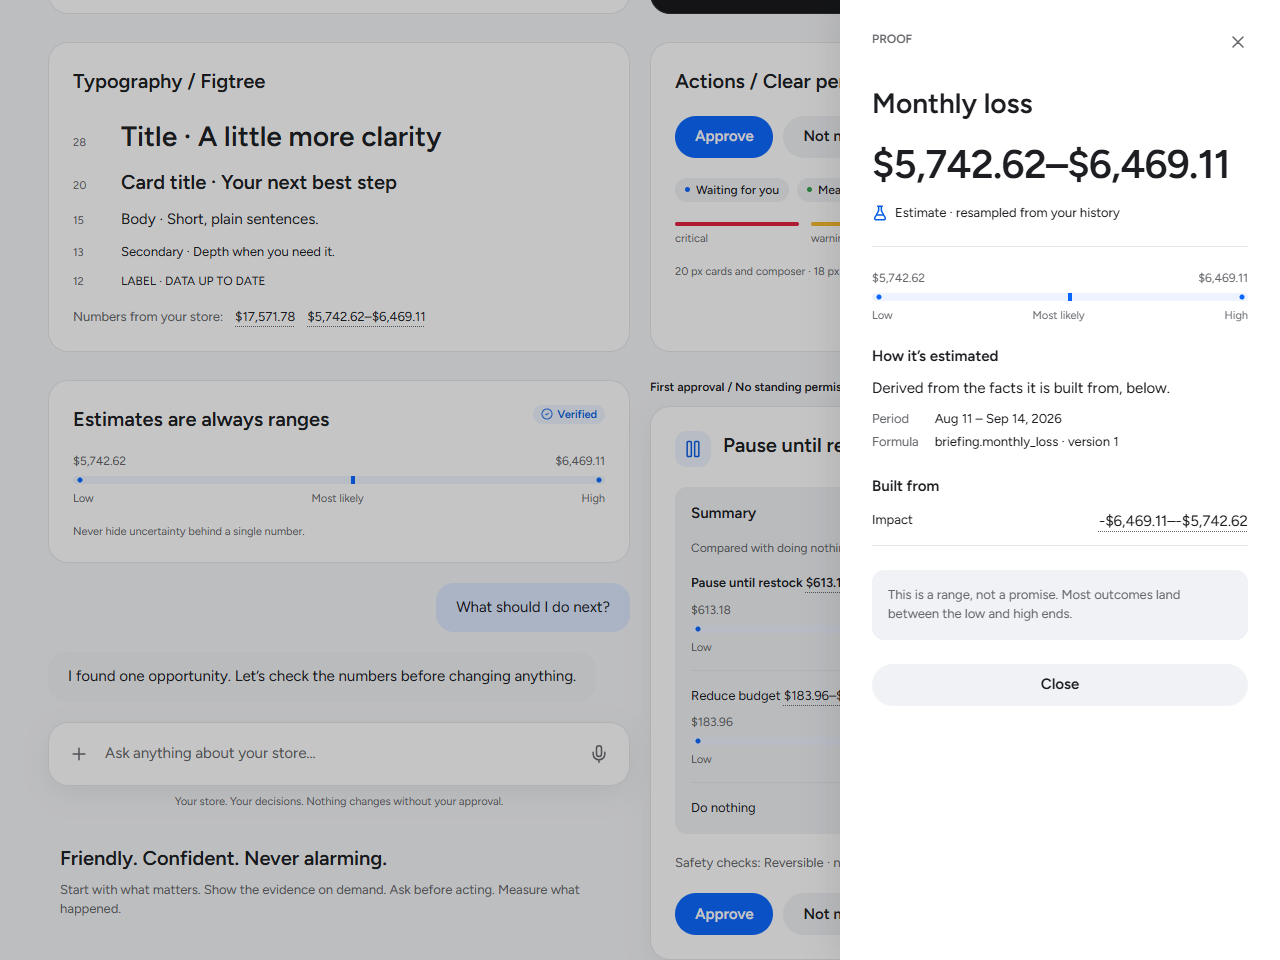
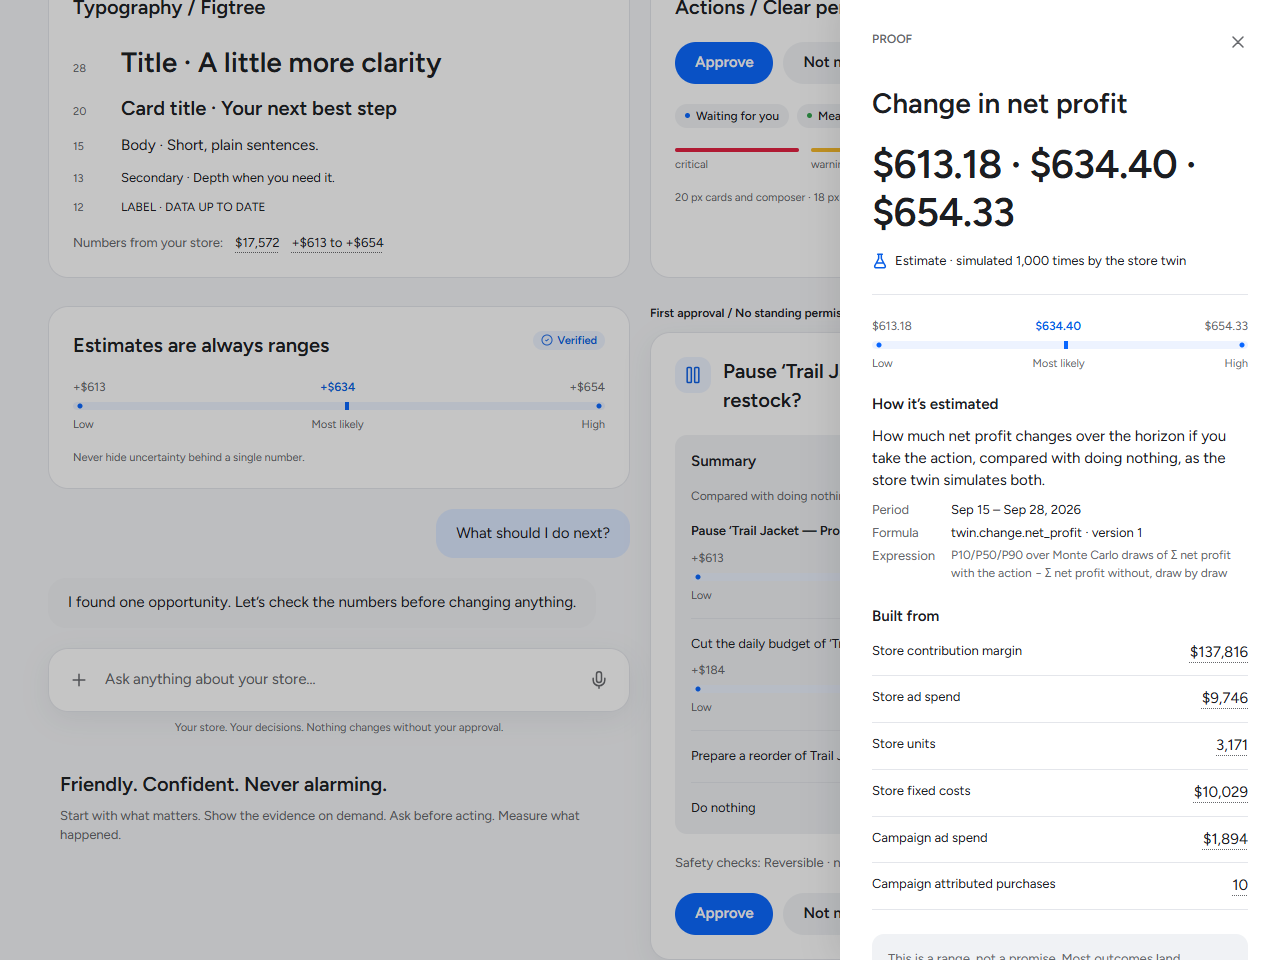
docs(web): page 1 screens refreshed after the API filled its gaps
The screens show the store's name, the demo's real names, short and
signed texts, the range bars' most likely value, decision labels with
"Do nothing $0", formulas in words, an ad spend proof with its daily
rows by campaign, "data up to" and the simulation count. The
differences list says what the API filled and what still differs
(connection health, a campaign's proof, formatting, a third option).
The screenshot script walks the lineage to a base fact with rows, as
Figma's exact proof shows one.

diff --git a/docs/screens/page-1/README.md b/docs/screens/page-1/README.md
@@ -32,9 +32,7 @@ session (the sign-in frame, the estimate sheet, the header and the composer).
    permission card); it opens "Every number here was computed by code from your data" and links to
    the proof. Not in Figma.
 3. **Real data only (adjustment 2).** Every number, name and option on the screens is the demo
-   store's, from the API: Figma's sample copy ("Northwind Outdoor", "Trail Jacket — Prospecting",
-   "+$570 to +$614") is not reproduced. Formats are the API's: `$613.18–$654.33`, with cents, no
-   plus sign and an en dash, where Figma writes `+$570 to +$614`.
+   store's, from the API; none is copied from Figma.
 4. **Lineage in the proof (rule 2).** The proof sheet adds the formula's id and version, the
    period, and "Built from" (the parent facts, each one clickable, with Back).
 5. **No invented links or sample data.** The email field starts empty (Figma shows a sample
@@ -44,45 +42,49 @@ session (the sign-in frame, the estimate sheet, the header and the composer).
 6. **Development build only:** "Use the demo store" under the sign-in form, and the `/style-guide`
    catalogue itself (absent from a production build).
 
-### Waiting for the API (reported, no backend change made)
+### Filled by the API (the backend task after page 1)
 
-7. **The store's name.** No endpoint returns it (the session lists store ids): the header and the
-   store menu say "Your store" / "YS" where Figma shows "Northwind Outdoor · Demo store" / "NO".
-8. **P50 formatted.** A fact formats an estimate as its P10–P90 range only; the bar marks P50 but
-   cannot label it (Figma: "+$592" in blue above the mark, and "+$570 · +$592 · +$614" as the
-   estimate's value).
-9. **Source rows in the proof.** A fact's sources are tables with row counts; Figma lists each daily
-   row with its amount, a total, "Last synced today at 7:25 AM" and "Open source in Meta ↗". The
-   sheet shows each table and its row count, and a Close button.
-10. **Connection health.** The header pill says "Connected" from the API's readiness check; Figma's
-    "All systems connected" needs each connection's state (Shopify, Meta Ads), which the API does
-    not serve.
-11. **Decision wording.** A decision's options carry ids (`pause_until_restock`, `reduce_budget`) and
-    raw actions (`change: "-0.3"`), not the entity's name or a formatted label: the card asks
-    "Pause until restock?" where Figma asks "Pause ‘Trail Jacket — Prospecting’ until restock?", and
-    says "Reduce budget" for "Cut budget 30%" (the frontend computes no percentage). Page 3 will
-    need entity names and formatted option labels.
-12. **Estimate method.** "simulated 1,000 times" needs the simulation count; the sheet says how in
-    words from the method id ("resampled from your history"). "What could change this" is not part
-    of a fact's proof; a decision's options carry `risks` and `invalidated_if`, which page 3 can
-    show on the decision's estimates.
-13. **"Do nothing $0".** The baseline has no fact, so no amount is shown.
-14. **Formula wording.** A formula's description is an expression over metric ids
-    (`contribution_after_ads − fixed_costs`); Figma's "How it's calculated" reads "Sum of daily ad
-    spend, Sep 23–27". The sheet shows the API's text as it is.
+The first review found gaps in the API; they are filled, and the screens refreshed:
+
+- the store's name (`GET /stores/{id}`): "Northwind Outdoor · Demo store" and "NO" in the shell;
+- the demo store's names: Northwind Outdoor, its Trail Jacket and "Trail Jacket — Prospecting";
+- short texts for screens ("+$613 to +$654"), the exact ones for the proof, P10/P50/P90 formatted:
+  the range bars label the most likely value;
+- decision and option labels naming what they act on, and "Do nothing" with its zero fact ("$0");
+- formulas and fact families explained in plain words, with the technical expression beneath;
+- each source's rows with their date, campaign or product, and amount, "Data up to", the total;
+- the estimates' simulation count ("simulated 1,000 times by the store twin");
+- a name for every fact ("Change in net profit"), for the proof's title.
+
+### Still different
+
+7. **Connection health.** The header pill says "Connected" from the API's readiness check; Figma's
+   "All systems connected" needs each connection's state (Shopify, Meta Ads), which the API does
+   not serve (not part of the backend task).
+8. **The proof of a campaign's number.** Figma's exact proof is the ad spend of one campaign over
+   5 days ("Ad spend, Trail Jacket — Prospecting", 5 rows); the screenshot walks the store's
+   lineage to the store-wide ad spend (28 rows, each naming its campaign, 10 at a time). The title
+   names the metric; the fact's campaign is not in it. Figma's "Open source in Meta ↗" has no
+   counterpart: the API has no link to the platform.
+9. **Formatting.** The API writes "+$613 to +$654" where Figma writes "+$570 to +$614" (other
+   numbers, same form), and exact texts keep their cents ("$1,489.82"). Exact texts are unsigned;
+   short texts carry the sign of a change.
+10. **The permission card's options.** The demo decision has three options and "Do nothing": the
+    third, "Prepare a reorder of Trail Jacket", has no range (it prepares, it does not act). Figma
+    shows two options with ranges.
 
 ### Not built yet (later pages)
 
-15. The conversation is empty: the morning brief, the date line and answers come with page 2. The
+11. The conversation is empty: the morning brief, the date line and answers come with page 2. The
     proof screenshots open over the `/style-guide` catalogue instead of the conversation.
-16. The safety-check line of the catalogue's permission card is written from the option's
+12. The safety-check line of the catalogue's permission card is written from the option's
     reversibility; page 3 shows the policy's real checks (`POST /policy/preview`).
-17. The estimate sheet's caveat is generic ("This is a range, not a promise. Most outcomes land
+13. The estimate sheet's caveat is generic ("This is a range, not a promise. Most outcomes land
     between the low and high ends."); Figma's "I'll measure the result after the ad resumes" and
     "Back to options" belong to a decision's estimate (page 3).
-18. Narrow screens (390 px) are page 9's responsive pass; the shell is laid out for desktop.
+14. Narrow screens (390 px) are page 9's responsive pass; the shell is laid out for desktop.
 
 ### Small visual differences
 
-19. Status dots and range dots are CSS circles; Figma exports them as 5 px SVG dots.
-20. Number buttons get a hover colour and a focus ring; Figma has no states for them.
+15. Status dots and range dots are CSS circles; Figma exports them as 5 px SVG dots.
+16. Number buttons get a hover colour and a focus ring; Figma has no states for them.

diff --git a/docs/adr/0025-web-platform.md b/docs/adr/0025-web-platform.md
@@ -44,7 +44,9 @@ marker, dots) keep the Figma blues: they are graphics, above 3:1.
 for the visit when storage is refused). The theme is applied before the first render, so a dark
 system never flashes light.
 
-**No number is made in the frontend.** ESLint bans `Math.round/floor/ceil/trunc`, `toFixed`,
+**No number is made in the frontend.** The API writes every text a number is shown as: `display`
+(short: whole units, a range as "low to high", a change signed) on screens, `formatted` (exact) in
+the proof sheet, and an estimate's P10, P50 and P90 in both. ESLint bans `Math.round/floor/ceil/trunc`, `toFixed`,
 `toPrecision`, `toLocaleString` and the `Intl` global. A number on screen is a fact's `formatted`
 text. Two exceptions, each confined to one module: `src/charts/` maps API values to positions on
 an axis (never shown as numbers), and `src/format/dates.ts` formats dates with `Intl` (the API
@@ -78,9 +80,10 @@ to `docs/screens/page-<n>/app/`, which sit next to the Figma frames for review.
 
 ## Consequences
 
-- A screen can only show what the API serves. Page 1 found gaps, reported before any backend change
-  (`docs/screens/page-1/README.md`): the store's name, the formatted P50 of an estimate, per-row
-  amounts and the last sync time in a fact's sources, each connection's health, decision wording
-  (entity names, option labels), and formula descriptions in plain words.
+- A screen can only show what the API serves. Page 1's review found gaps, reported before any
+  backend change and then filled by the API (`docs/screens/page-1/README.md`): the store's name,
+  short and exact texts with P10/P50/P90, decision and option labels with "do nothing", formulas in
+  plain words, a source's rows with their amounts and freshness, the simulation count, a name for
+  every fact. Each connection's health is still to come.
 - Formatting lives in one place, the API; a currency or rounding change needs no frontend change.
 - The token rules keep both themes accessible, but every new colour needs a token, not a class.
